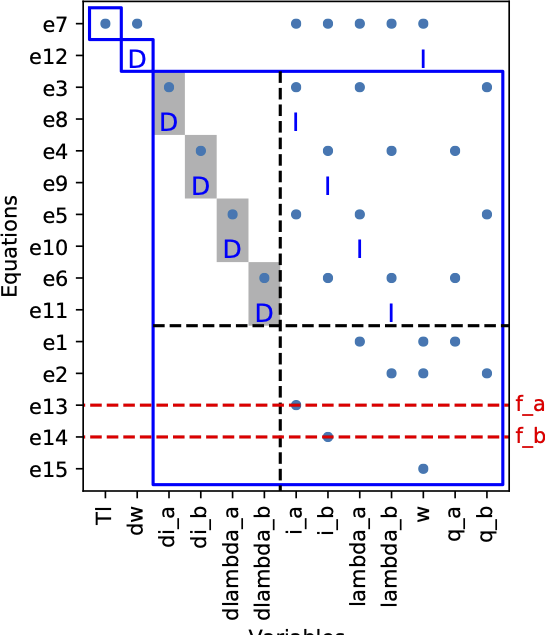
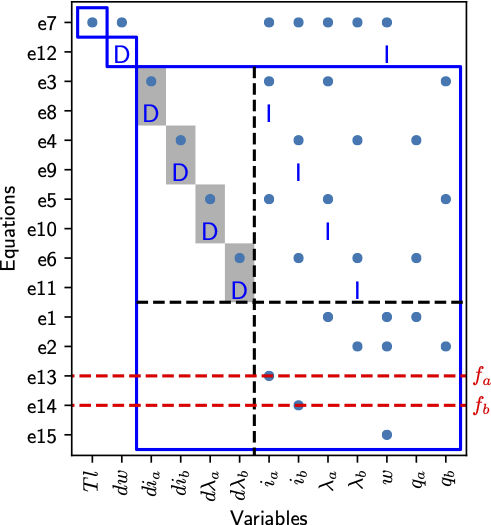
Improved python package descriptions and figure quality in python tutorial

diff --git a/_posts/tutorials/2020-07-07-python-intro.md b/_posts/tutorials/2020-07-07-python-intro.md
@@ -42,7 +42,7 @@ For reference, the equations are given below
 </p>
 There are also three measurement equations, where the two current sensors have modeled faults as
 <p>
-<img src="/assets/tutorials/induction_motor_model_y.png" width="20%" align="centering"/>
+<img src="/assets/tutorials/induction_motor_model_y.png" width="15%" align="centering"/>
 </p>
 
 The modeling part is where the main differences between Python and Matlab versions are. This is due to that [SymPy](https://www.sympy.org/) is used instead of the symbolic toolbox in Matlab. Therefore, let's import the toolbox and sympy
@@ -100,10 +100,25 @@ and the API is very close to the Matlab version as described in the documentatio
 
 <a name="msomtes"/>
 ### Model information, basic plotting, and MSO/MTES
-As before, to display model information and plot model structure, use `Lint` and `PlotModel` class methods
+As before, to display model information use the `Lint` class method
 ```python
 model.Lint()
-
+```
+which gives
+```
+Model: Induction motor
+  Type:Symbolic, dynamic
+  Variables and equations
+    13 unknown variables
+    5 known variables
+    2 fault variables
+    15 equations, including 5 differential constraints
+  Degree of redundancy: 2
+  Degree of redundancy of MTES set: 1
+  Model validation finished with 0 errors and 0 warnings.
+```
+The degree of redundancy is 2 in the model since there are 3 output sensors and 1 unknown input to the system, the load torque `Tl`. To plot the model structure, use the `PlotModel` method as
+```python
 # Plot model
 model.PlotModel()
 ```
@@ -113,17 +128,25 @@ which gives the figure
 </p>
 Computing the set of MSO and MTES sets is done as below
 ```python
-# Find set of MSOS
+# Find set of MSOS and MTES
 msos = model.MSO()
 mtes = model.MTES()
+print(f"Found {len(msos)} MSO sets and {len(mtes)} MTES sets.")
+
+# Check observability and low index for MSO sets
+oi_mso = [model.IsObservable(m_i) for m_i in msos]
+li_mso = [model.IsLowIndex(m_i) for m_i in msos]
+print(f'Out of {len(msos)} MSO sets, {sum(oi_mso)} observable, {sum(li_mso)} low (structural) differential index')
 
 # Check observability and low index for MTES sets
-oi = [model.IsObservable(mtes_i) for mtes_i in mtes]
-li = [model.IsLowIndex(mtes_i) for mtes_i in mtes]
-print(f'Out of {len(mtes)} MTES sets, {sum(oi)} observable, {sum(li)} low (structural) differential index')
+oi_mtes = [model.IsObservable(m_i) for m_i in mtes]
+li_mtes = [model.IsLowIndex(m_i) for m_i in mtes]
+print(f'Out of {len(mtes)} MTES sets, {sum(oi_mtes)} observable, {sum(li_mtes)} low (structural) differential index')
 ```
 and the code outputs
-```python
+```
+Found 9 MSO sets and 2 MTES sets.
+Out of 9 MSO sets, 9 observable, 4 low (structural) differential index
 Out of 2 MTES sets, 2 observable, 2 low (structural) differential index
 ```
 <a name="isolabilityanalysis"/>
@@ -141,7 +164,7 @@ which gives the figure
 <p>
 <img src="/assets/tutorials/induction_dmplot.png" width="50%" align="centering"/>
 </p>
-For more details, see Mattias Krysander, Jan Åslund, and Mattias Nyberg, "[_An Efficient Algorithm for Finding Minimal Over-constrained Sub-systems
+For more details on the canonical decomposition of the overdetermined part, see Mattias Krysander, Jan Åslund, and Mattias Nyberg, "[_An Efficient Algorithm for Finding Minimal Over-constrained Sub-systems
 for Model-based Diagnosis_](http://dx.doi.org/10.1109/TSMCA.2007.909555)".
 IEEE Transactions on Systems, Man, and Cybernetics -- Part A: Systems and Humans, 38(1), 2008.
 
@@ -152,7 +175,7 @@ To wrap up this example, let us use one of the MTES sets and generate C++-code f
 model.MSOCausalitySweep(mtes[0])
 ```
 This outputs
-```python
+```
 ['mixed', 'mixed', 'mixed', 'mixed', 'mixed', 'mixed', 'mixed', 'int', 'mixed', 'mixed', 'int', 'mixed']
 ```
 and thus the 11:th element in the first MTES can be used. The 11:th element correspond to the second measurement equation
@@ -186,8 +209,8 @@ and have a look in the `examples` sub-folder.
 
 <a name="installation"/>
 ## Installation
-The package needs Python version 3.6 or newer, check version with 
-```python
+The package needs Python version 3.6 or newer, check which version you have installed with 
+```bash
 python3 --version
 ```
 Now, create a [virtual environment](https://docs.python.org/3/tutorial/venv.html), don't install into the system wide python installation. You can do this as (only needed once) with
@@ -202,9 +225,9 @@ in MacOS/Linux or if you're on a Windows machine
 ```
 .\env\Scripts\activate  # Windows
 ```
-Also a good idea to update the package manager `pip`
+Always a good idea to upgrade the package manager `pip` before continuing
 ```bash
-pip install -U pip
+pip install --upgrade pip
 ```
 Then, install the toolbox 
 ```bash

diff --git a/_pages/download.md b/_pages/download.md
@@ -35,14 +35,16 @@ window.onload = function() {
 </script>
 <h1>Download and Installation</h1>
 
-The latest version of the package can always be obtained from this page
+The latest version of the Matlab package can always be obtained from this page
 (<https://faultdiagnosistoolbox.github.io/>). The current version of the toolbox
 can be found in the zip-archive <a href="/_releases/FaultDiagnosisToolbox_2018-12-09.zip" id="downloadlink">FaultDiagnosisToolbox_2018-12-09.zip</a>
-and the current documentation (also included in the zip file) [documentation](/_releases/user-manual_2018-12-09.pdf).
-
-The toolbox requires a Matlab v7.6 (R2008a) or later for the object-oriented functionality.
+and the current documentation (also included in the zip file) [documentation](/_releases/user-manual_2018-12-09.pdf). The toolbox requires a Matlab v7.6 (R2008a) or later for the object-oriented functionality.
 Main functionality also requires the [Symbolic Toolbox](https://www.mathworks.com/products/symbolic.html)
 version 7.14 (2012a) or later.
+
+
+To install the Python package, use pythons package installation system `pip`. See the [python tutorial](/tutorial/python-intro/) for more information on how to install and use the Python toolbox.
+
 
 ### References
 If you use this toolbox in your research, please cite

diff --git a/_pages/usecase.md b/_pages/usecase.md
@@ -12,7 +12,7 @@ Model Based Diagnosis Systems for Large Scale Models_](https://doi.org/10.1016/j
 where the interested reader can find more complete explanations and a full set of references
 to explained used concepts and methods. 
 
-This use-case is presented using the Matlab toolbox, but all commands have direct counterparts in Python and all that is presented here can be done also in Python.
+This use-case is presented using the Matlab toolbox, but all commands have direct counterparts in Python and all that is presented here can be done also in Python. See the [python tutorial](/tutorial/python-intro/) for more information on how to install and use the Python toolbox.
 
 ### Outline
 1. [Introduction](#introduction)
